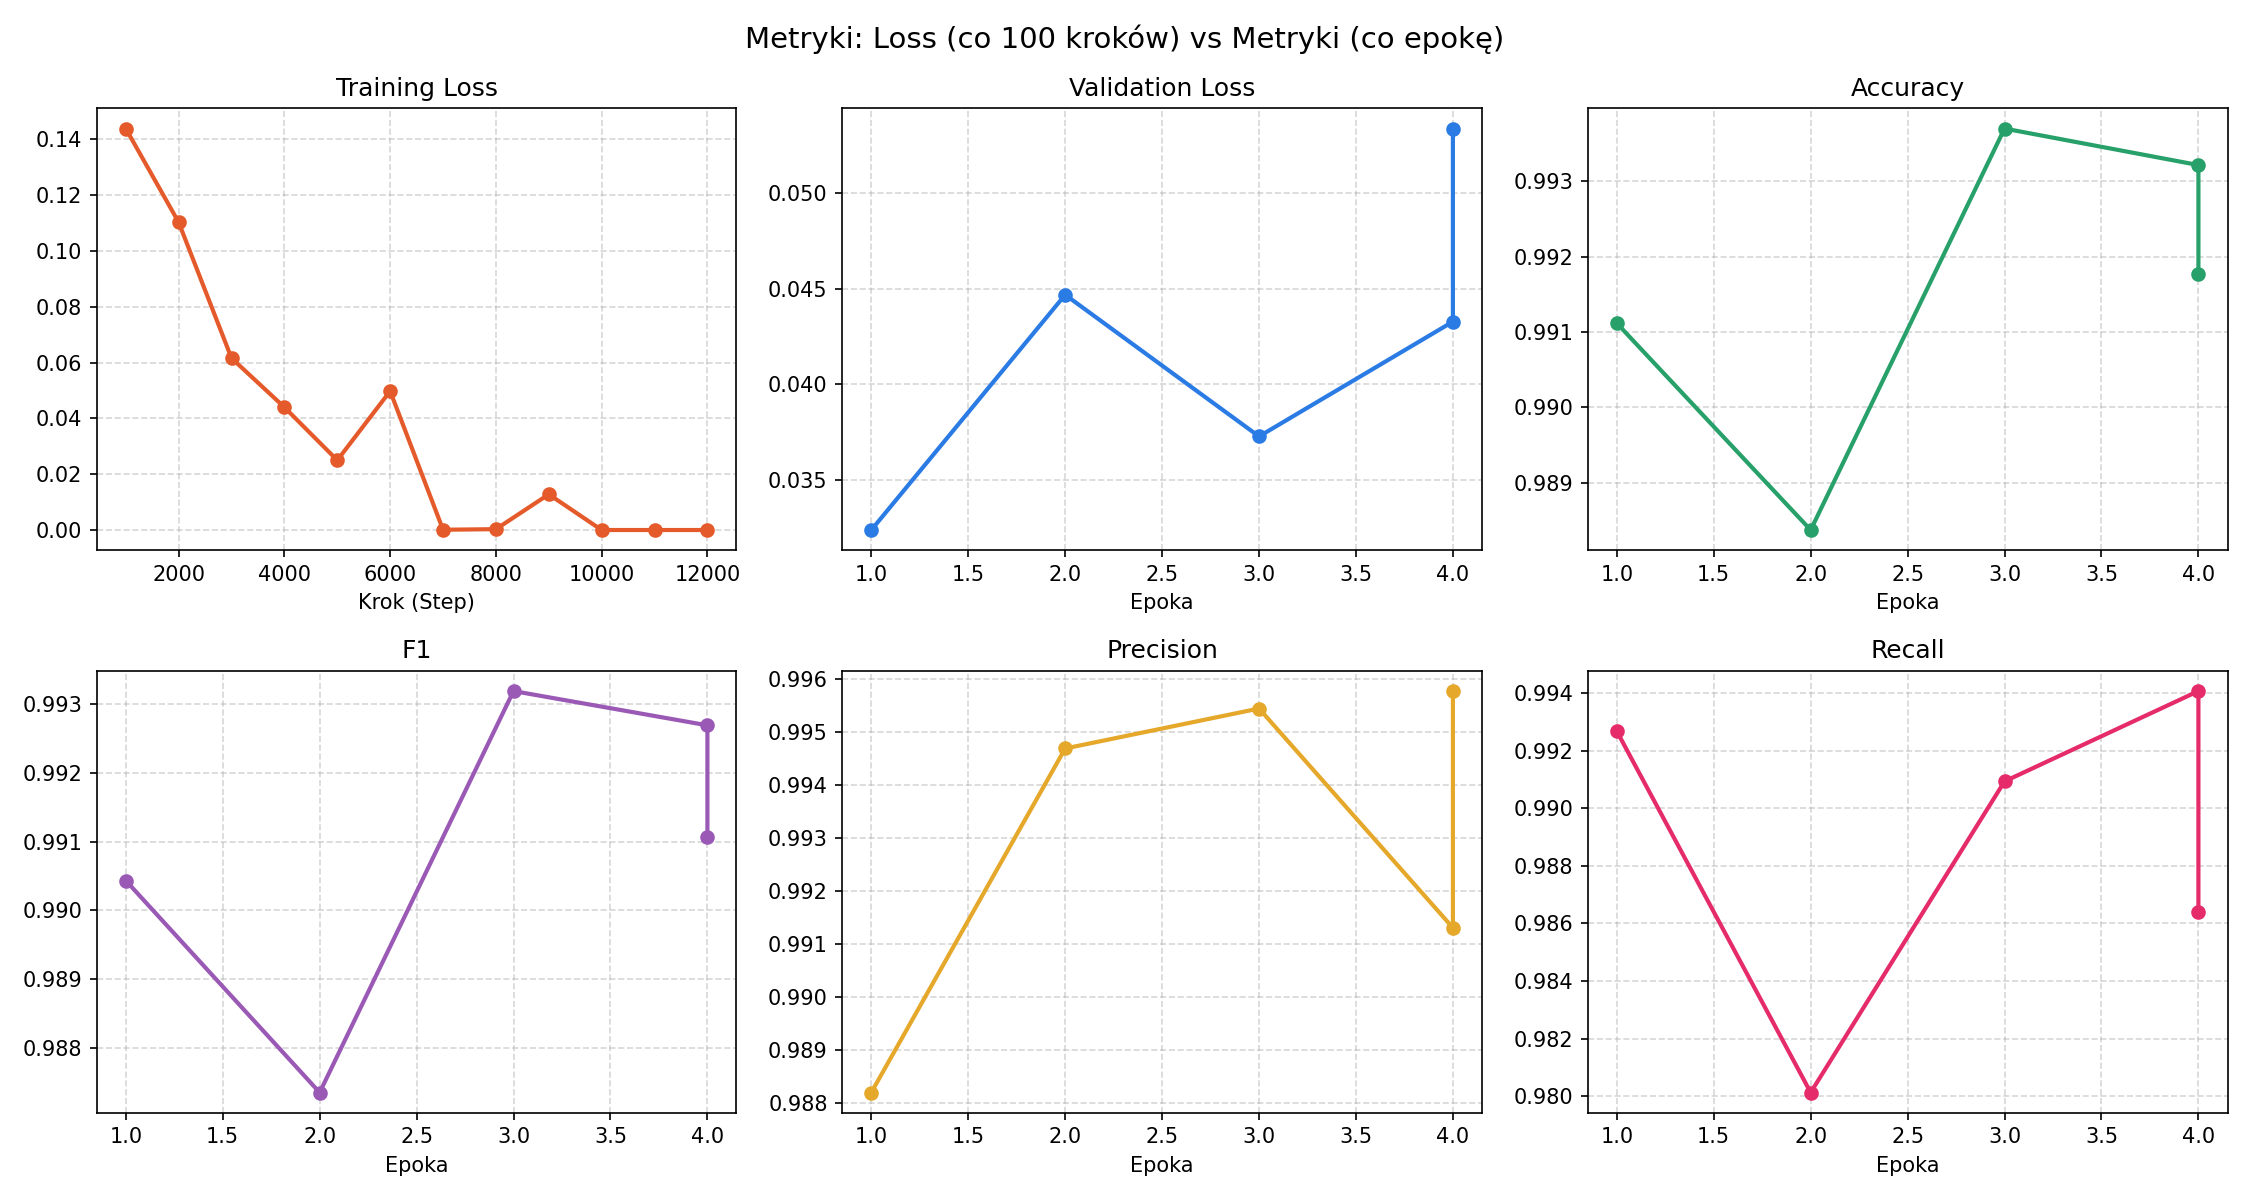
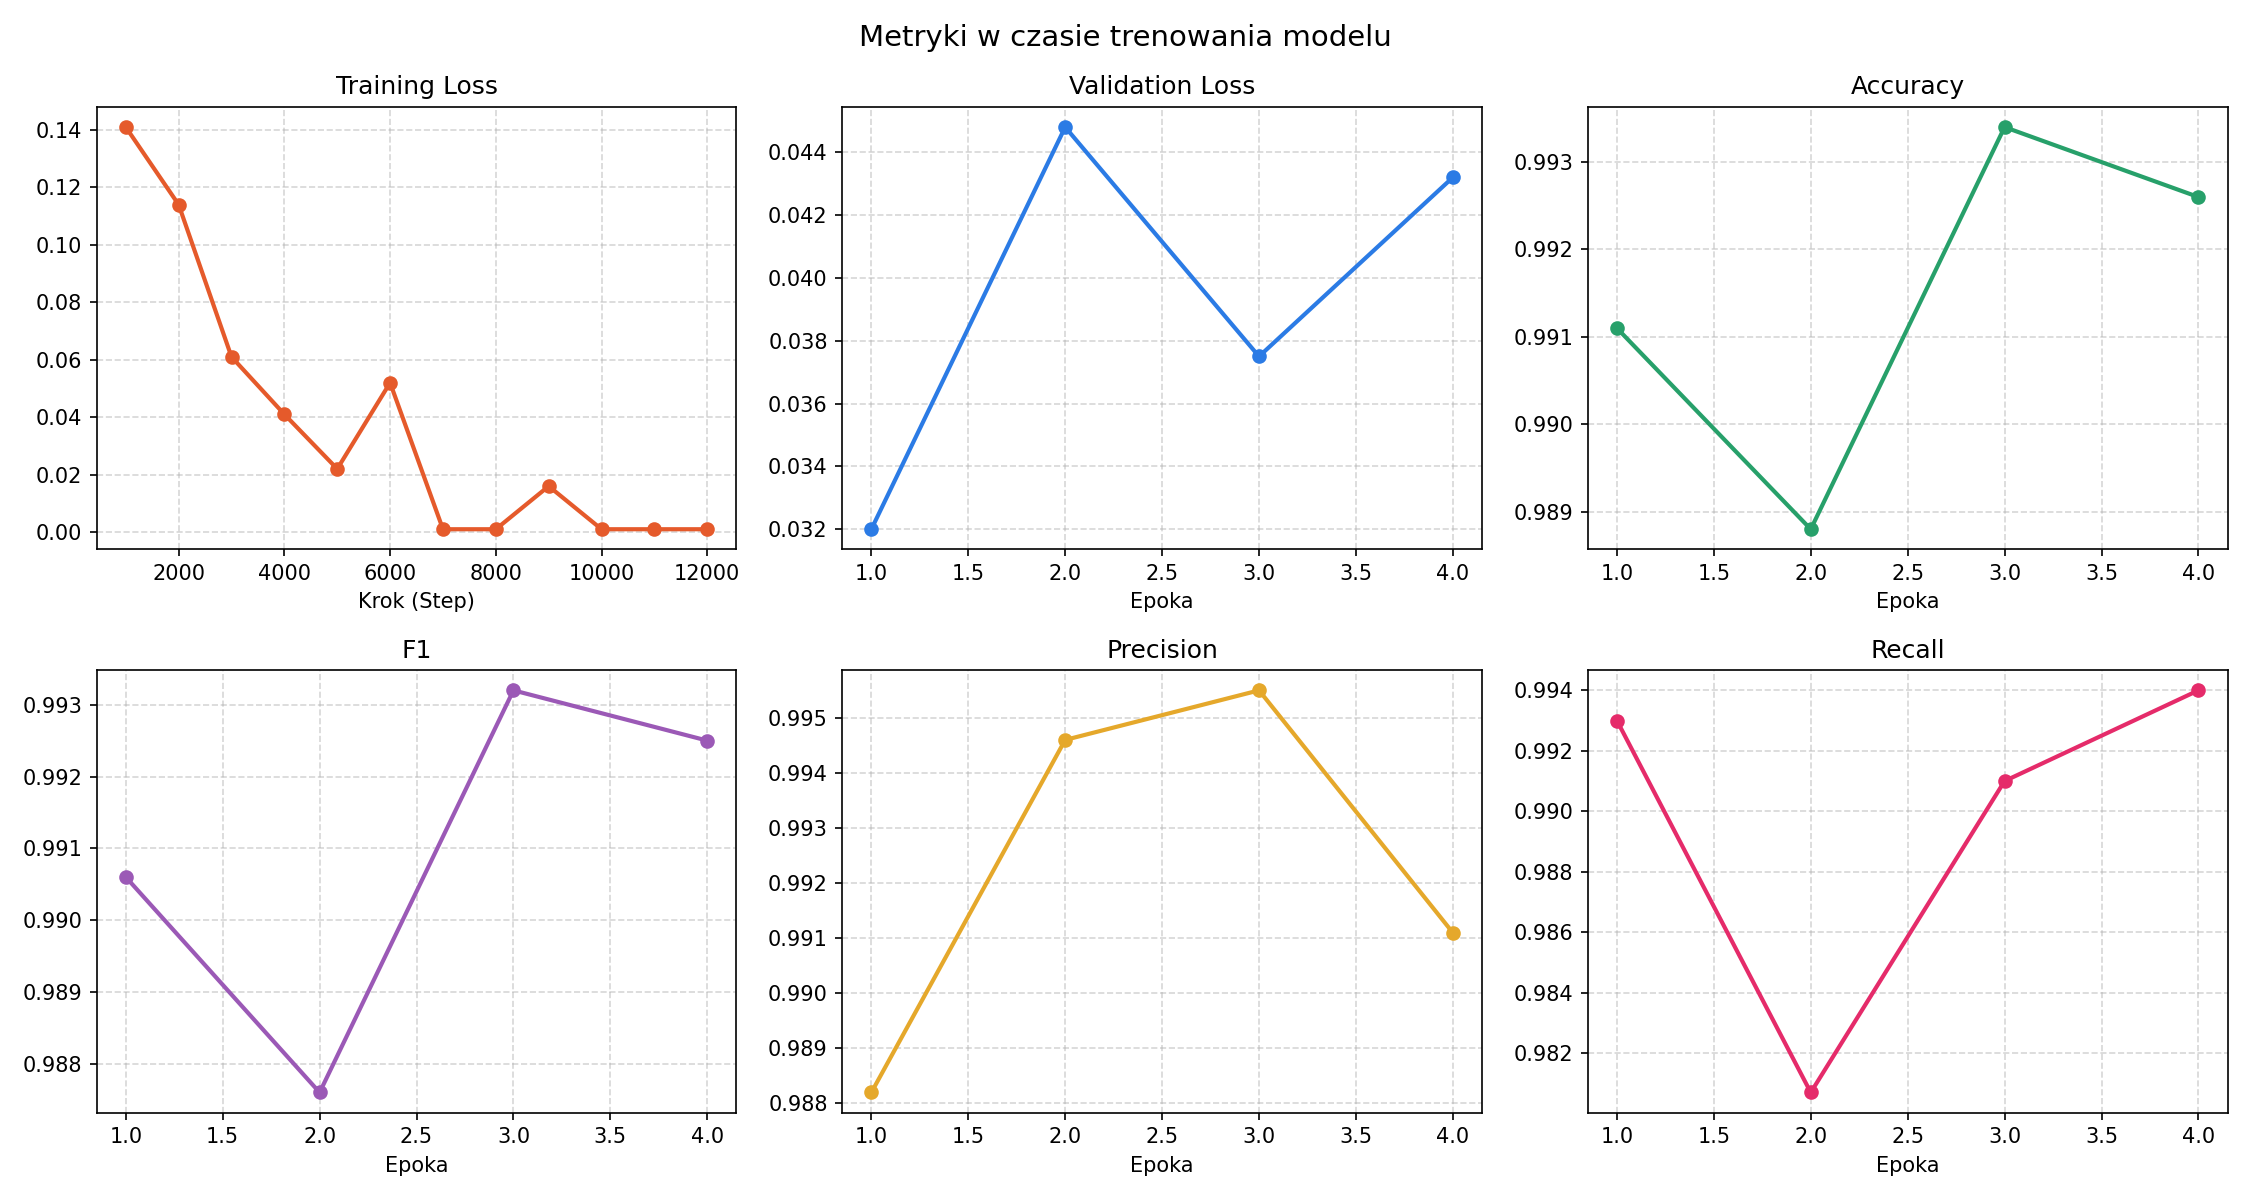
plot fix

diff --git a/TrainingMetricsCallback.py b/TrainingMetricsCallback.py
@@ -6,6 +6,7 @@ class TrainingMetricsCallback(TrainerCallback):
     def __init__(self):
         self.epoch_metrics = []
         self.step_losses = []
+        self.training_finished = False
 
     def on_log(self, args, state, control, logs=None, **kwargs):
         if logs and "loss" in logs:
@@ -15,8 +16,14 @@ class TrainingMetricsCallback(TrainerCallback):
                     "loss": logs["loss"]
                 })
 
+    def on_train_end(self, args, state, control, **kwargs):
+        self.training_finished = True
+
     def on_evaluate(self, args, state, control, metrics=None, **kwargs):
-        if metrics is not None:
+        if metrics is not None and not self.training_finished:
+            epoch_key = round(state.epoch)
+            if any(round(m["epoch"]) == epoch_key for m in self.epoch_metrics):
+                return
             self.epoch_metrics.append({
                 "epoch": state.epoch,
                 "val_loss": metrics.get("eval_loss", None),
@@ -42,7 +49,7 @@ def plot_all_metrics(metrics_callback):
     recall = [m["recall"] for m in epoch_data]
 
     fig, axes = plt.subplots(2, 3, figsize=(15, 8))
-    fig.suptitle("Metryki: Loss (co 100 kroków) vs Metryki (co epokę)", fontsize=14)
+    fig.suptitle("Metryki w czasie trenowania modelu", fontsize=14)
 
     def _plot(ax, x, y, label, color, x_label="Epoka"):
         ax.plot(x, y, marker="o", color=color, linewidth=2)
